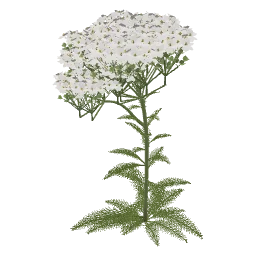
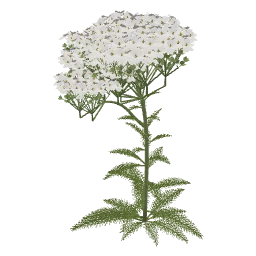
feat(templates): the yarrow's basal leaves sit on a spiral
The 8–13 basal leaves no longer sit on a 1 cm crown stem that only
anchored them, and lose the `size 100` that made up for its 3 mm
thickness. `spiral` gives their points at the golden angle and
`instance_from_points` places them; the random of their size is scaled
by what the crown's thickness used to add.

Refs #490

Changed region(s): [[0.2188, 0.0312, 0.8125, 0.9688]]

diff --git a/docs/PLANT_TEMPLATES.md b/docs/PLANT_TEMPLATES.md
@@ -394,7 +394,7 @@ Family Asteraceae.
 
 **Structure:** A perennial 20–80 cm tall that grows in clumps. The stems are upright, little branched below the inflorescence. The leaves are 5–15 cm long and narrow, 2–3 times pinnately divided into fine segments ("millefolium"), the lower ones the largest, the upper ones smaller and sessile. The inflorescence is a dense, flat-topped corymb 5–15 cm across. A head is 4–6 mm across, with usually 5 short, broad white (sometimes pink) rays and 10–20 cream disc florets.
 
-**Template:** 1–3 stems 32–88 cm tall, leaning up to 0.4 rad, turned around the plant at random and grown by `time`. A leaf is made of paths: 4 rachis variants (`stem`, arched by `gravity`) with 20–27 pinnae in two ranks and 6–9 segments on each pinna, longest in the middle of the leaf, baked by `to_geometry` into four feathery geometries. 8–13 of them lie in a basal rosette on a short crown, 6–9 large ones sit on the lower half of each stem and 11–17 smaller ones, more upright, on the upper half.
+**Template:** 1–3 stems 32–88 cm tall, leaning up to 0.4 rad, turned around the plant at random and grown by `time`. A leaf is made of paths: 4 rachis variants (`stem`, arched by `gravity`) with 20–27 pinnae in two ranks and 6–9 segments on each pinna, longest in the middle of the leaf, baked by `to_geometry` into four feathery geometries. 8–13 of them lie in a basal rosette on the points of a `spiral`, 6–9 large ones sit on the lower half of each stem and 11–17 smaller ones, more upright, on the upper half.
 
 One `random` with `once` sets the corymb: it makes the heads 0.7–1.4 times as large and the side clusters fewer, so a plant has one or two big flat tops or up to five smaller ones. The side clusters are a `branch` of 0–5 from 80–96% of the stem, 0.75–1.1 rad from it, curved up by a negative `gravity`, as long as the stem above them so their tips come near its top. An `umbel` with a flat top (`shape` 0, 2 layers of 4–6 rays) ends the stem and every side branch, and an `instance` puts a head on every ray. The clusters open from the lowest to the top one, their rays growing with the heads. The head is chosen by `time` from two baked geometries: a green bud cluster, or the open cluster of 5–7 rays and umbellets with a floret of six white rays and four yellow disc lobes on each tip, and a rim of green buds below.
 
